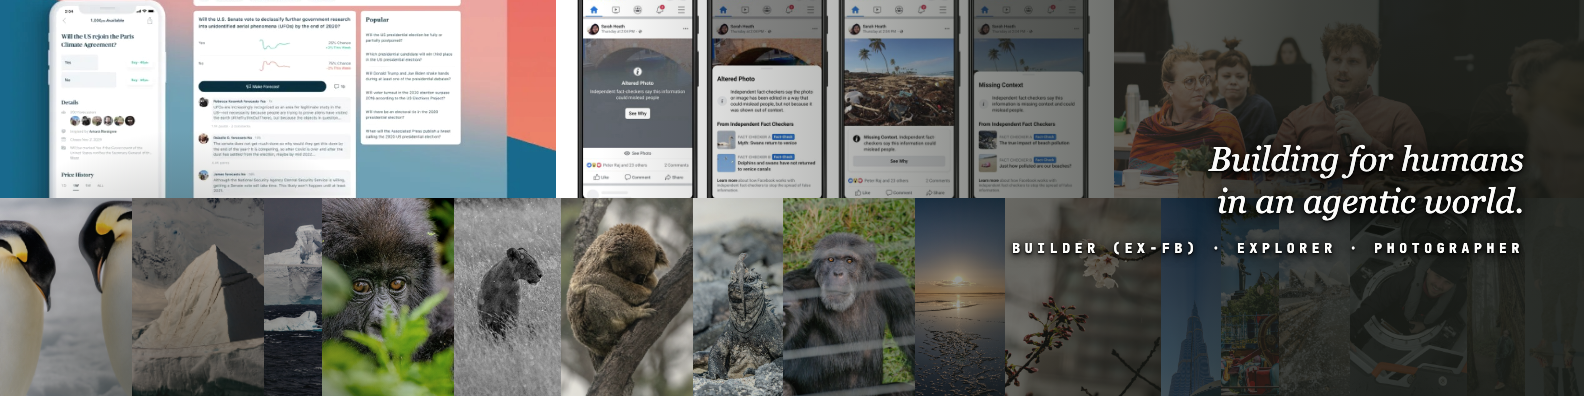
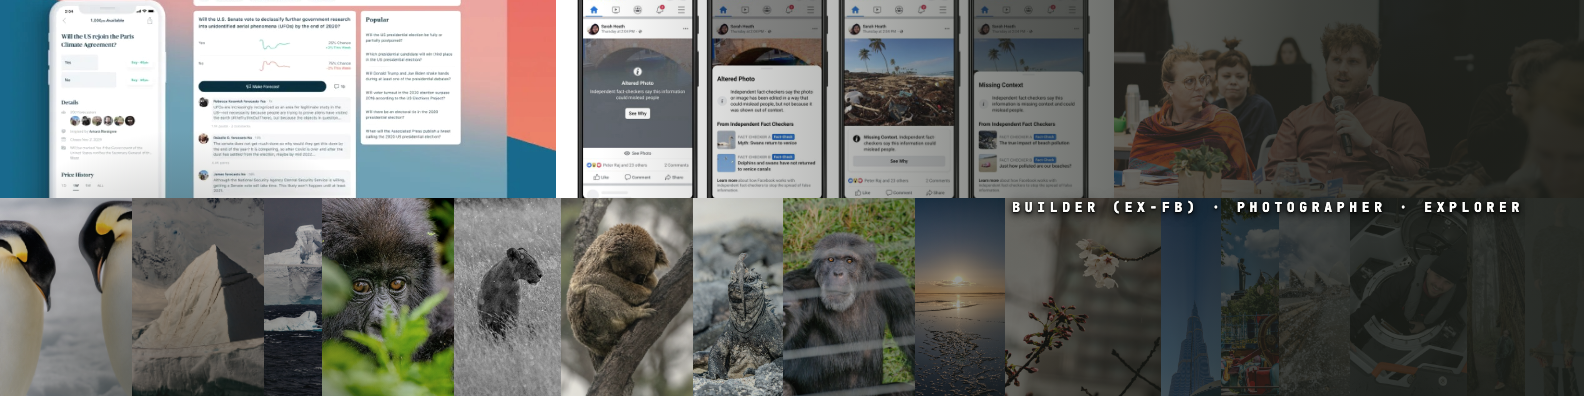
copy(linkedin-cover): drop the "agentic world" lede, match the og card
Cover text is now roles-only in the og card's order (Builder (ex-FB) ·
Photographer · Explorer). Regenerated media/linkedin-cover.png at
1584x396 from cover.html.

Changed region(s): [[0.6187, 0.3636, 0.959, 0.5758], [0.6187, 0.6061, 0.959, 0.6667]]

diff --git a/scripts/linkedin-cover/cover.html b/scripts/linkedin-cover/cover.html
@@ -60,9 +60,10 @@
 <body>
   <div class="stage" id="stage"></div>
   <div class="scrim"></div>
+  <!-- Congruent with media/og.png: roles only, same order, no tagline
+       (the "agentic world" lede was retired 2026-07-22). -->
   <div class="caption">
-    <div class="lede">Building for humans<br>in an agentic world.</div>
-    <div class="eyebrow">Builder (ex-FB) · Explorer · Photographer</div>
+    <div class="eyebrow">Builder (ex-FB) · Photographer · Explorer</div>
   </div>
 
 <script>
